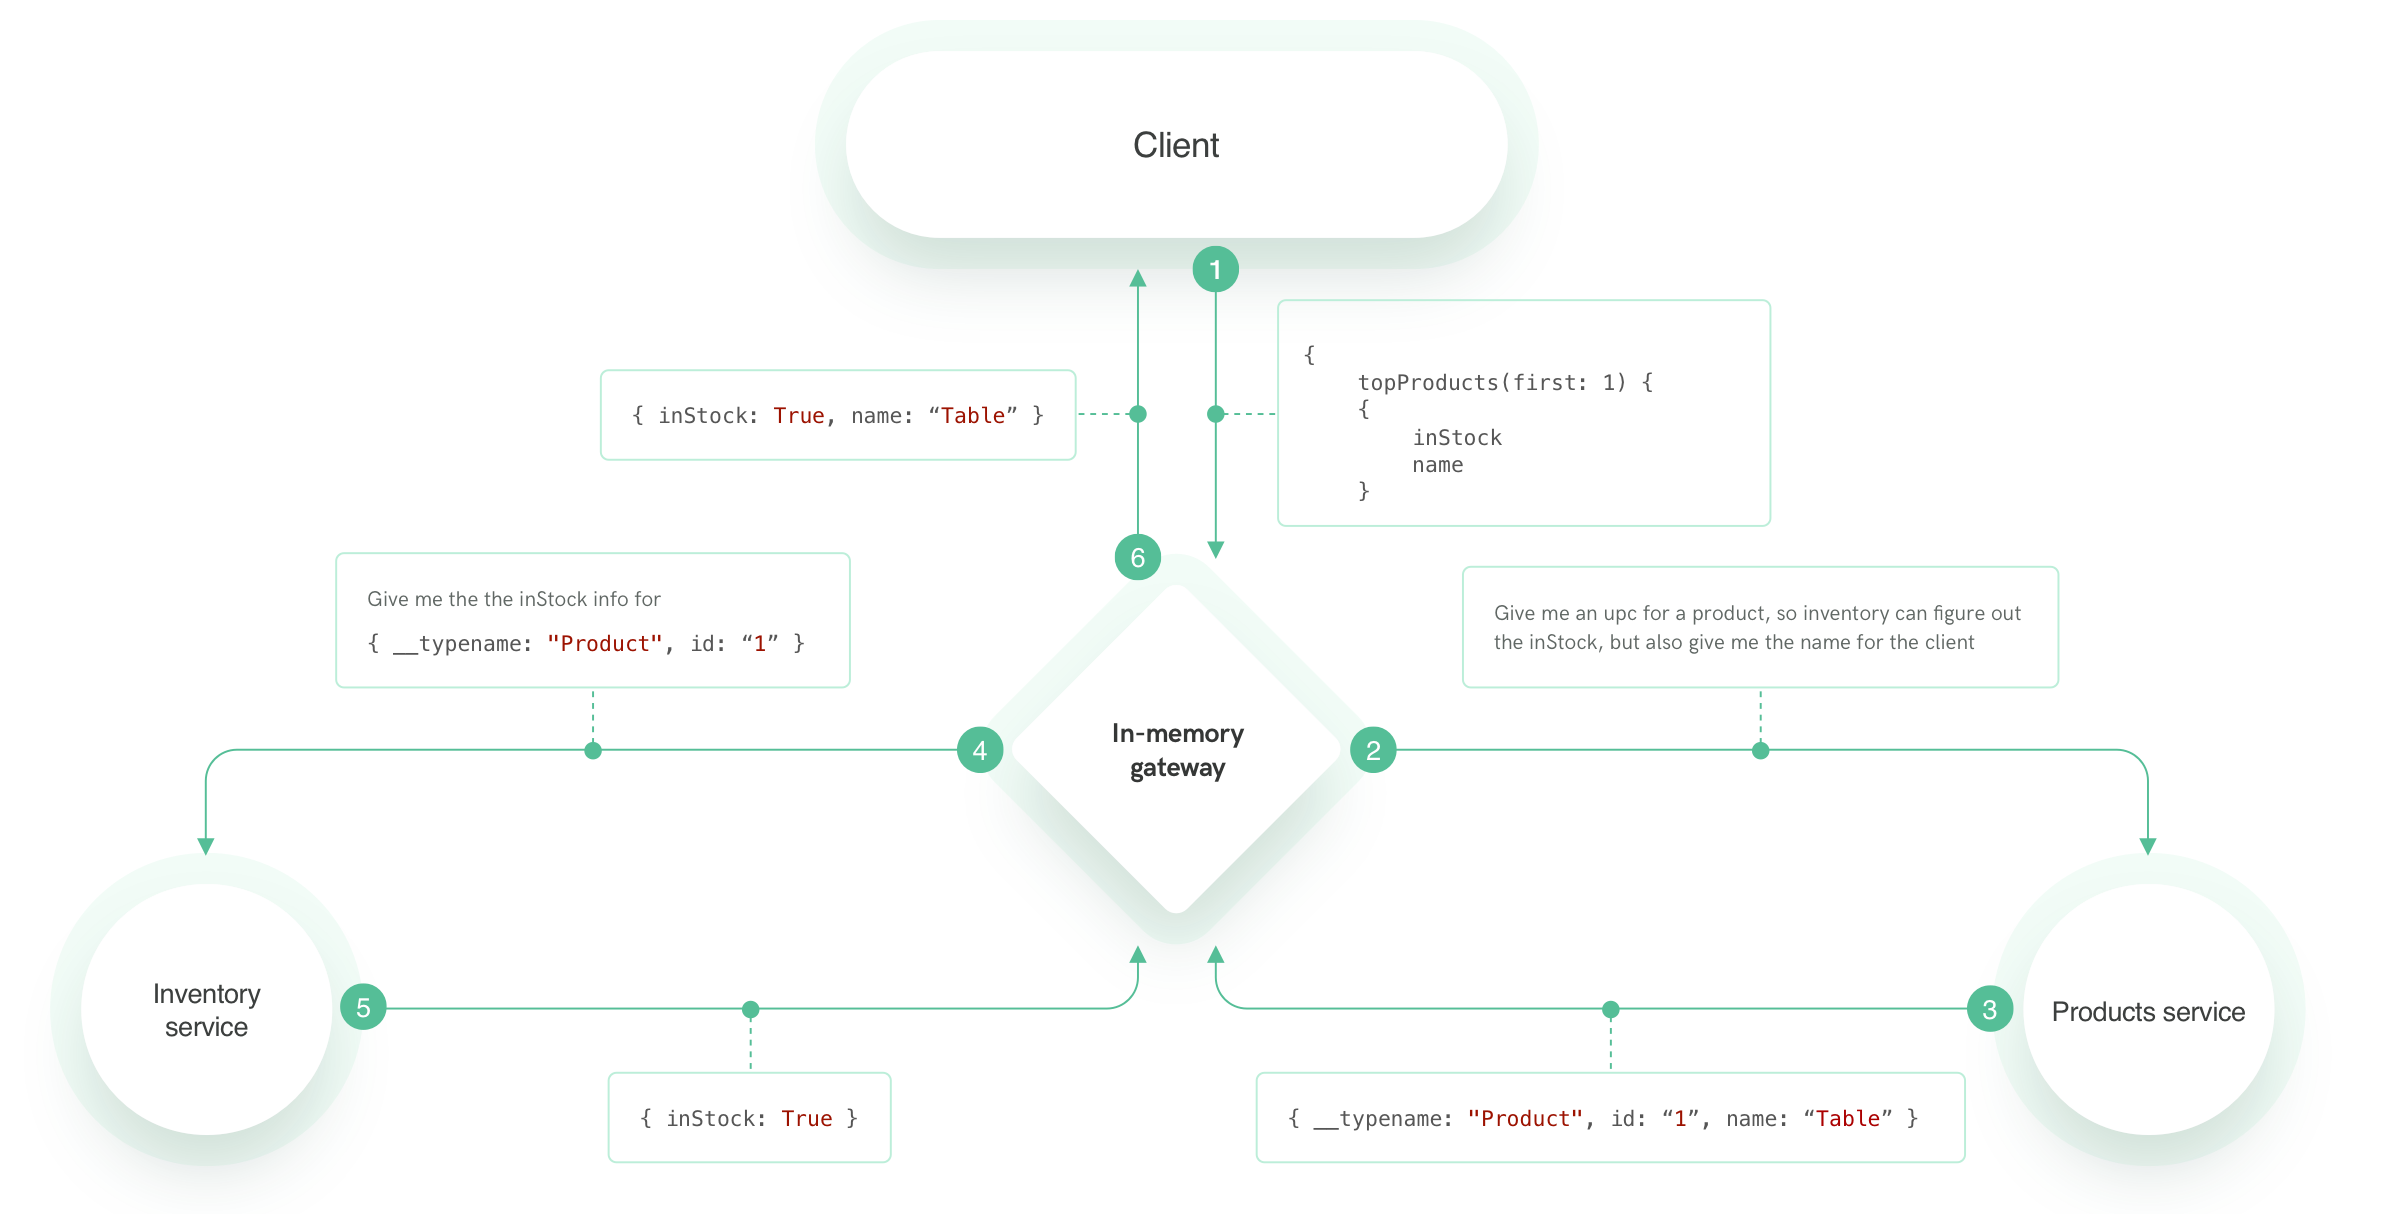
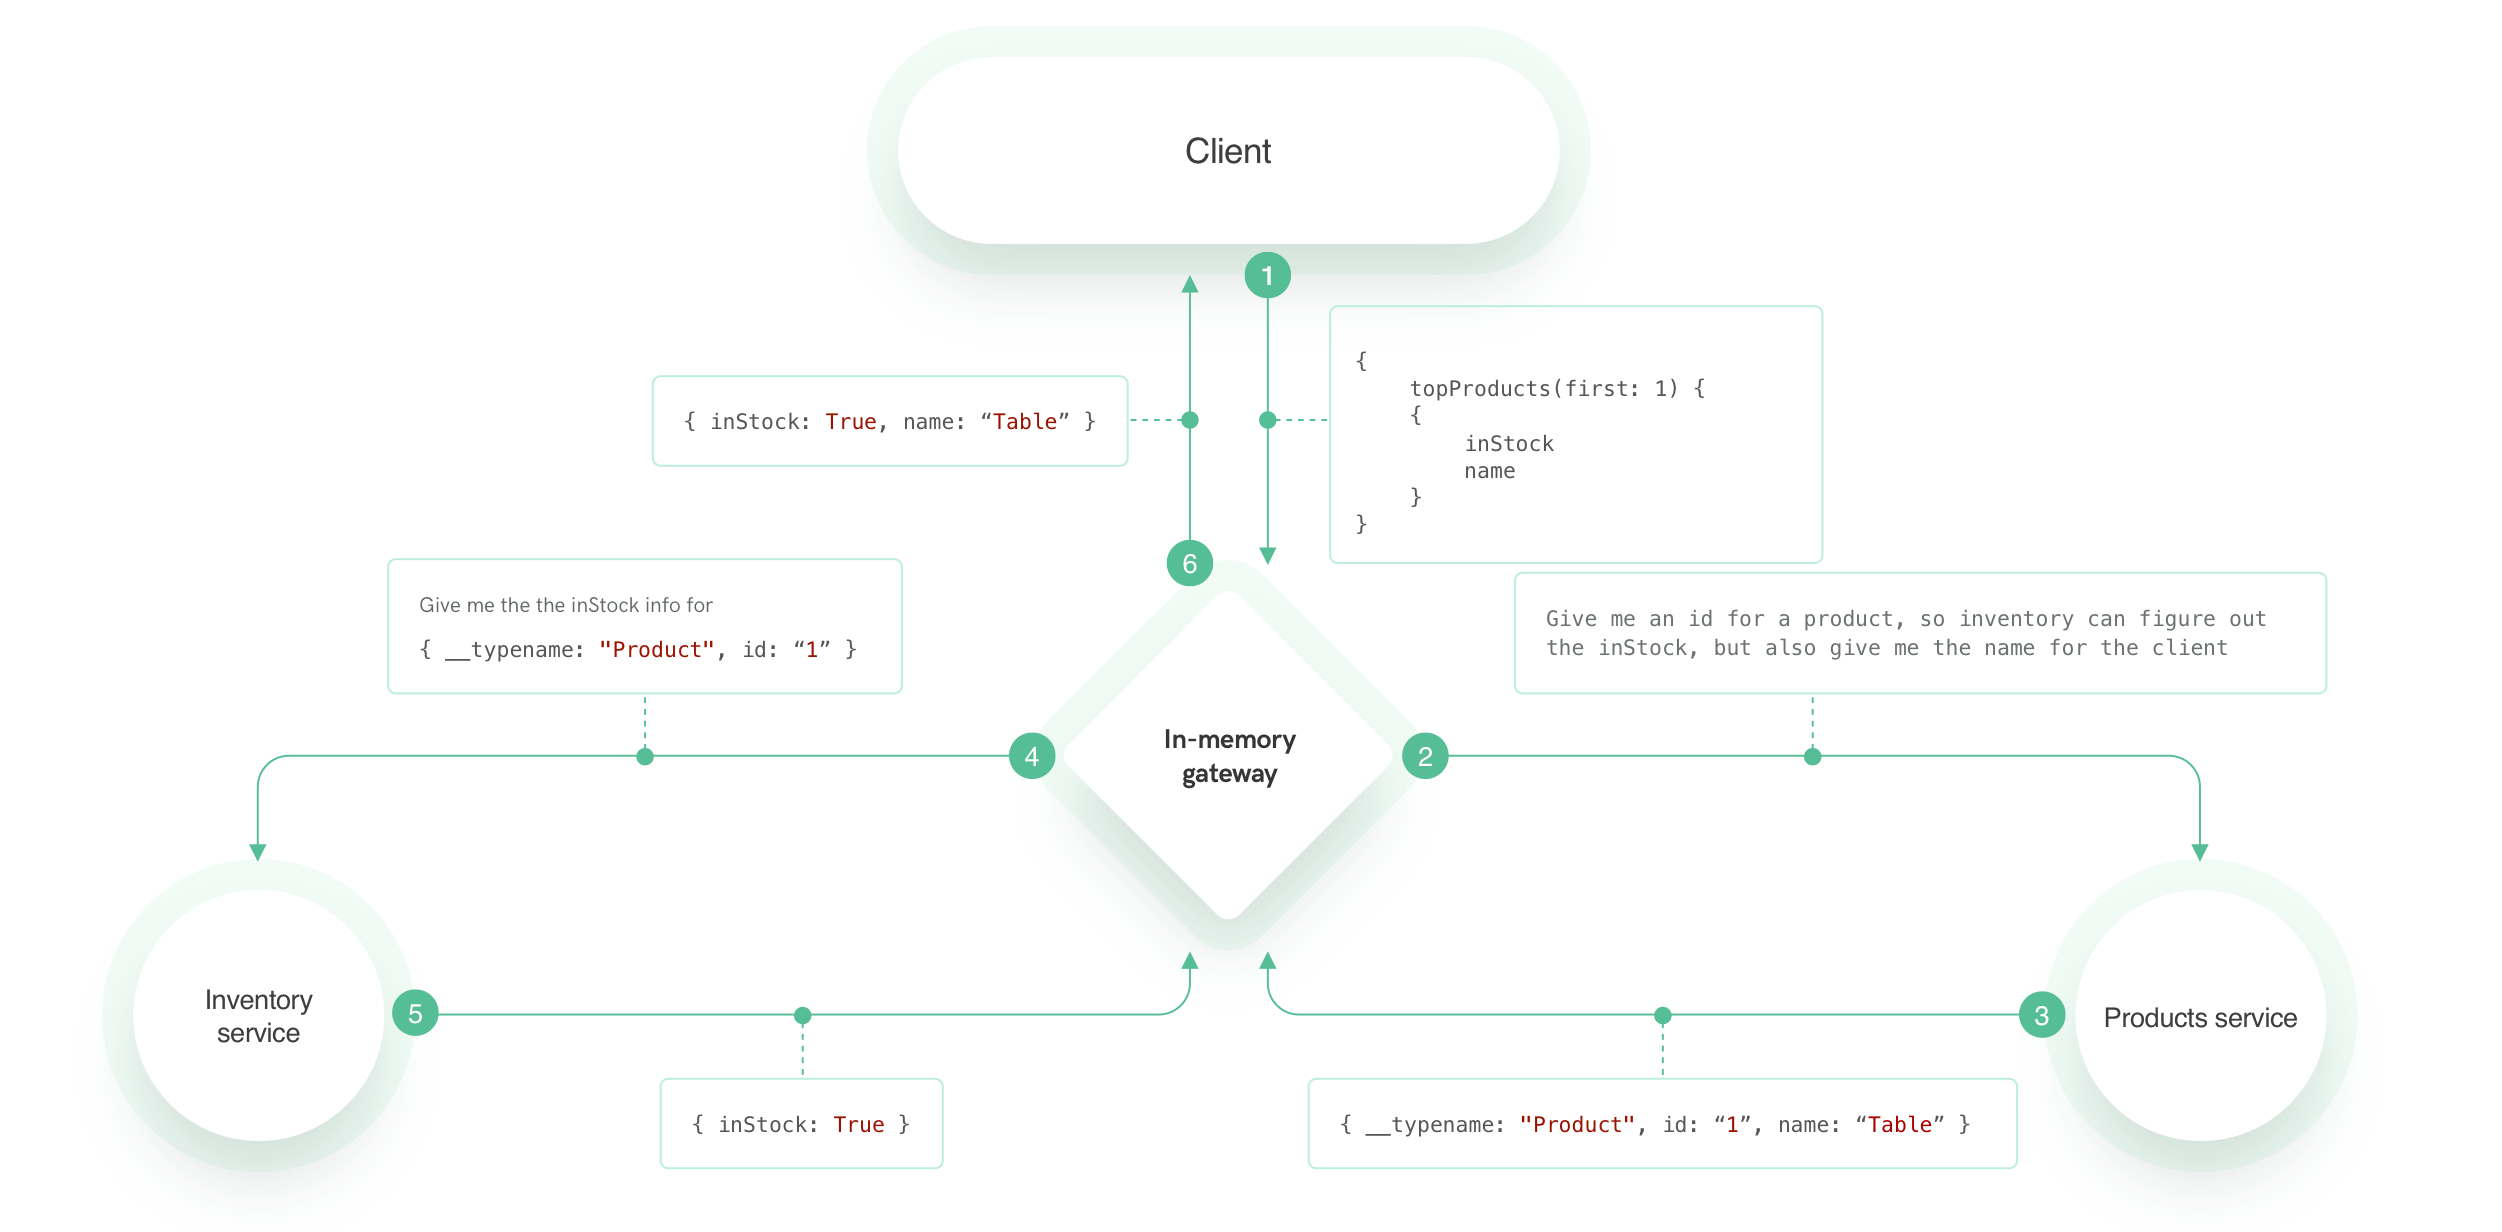
updated info about the charts and updated charts

diff --git a/src/exercises/2/README.md b/src/exercises/2/README.md
@@ -4,7 +4,7 @@ Having `products` service ready, let's create an inventory service, that will ex
 
 The outcome of this exercise should be a functionality that allows user to query `topProducts` from `products` service but having the `inStock` information added to it from `inventory` service.
 
-Take a loot at this chart to understand what we want to achieve:
+Take a loot at this chart to understand what we want to achieve, we are dealing with steps 4 and 5 now.
 
 ![dataflow](./2.png)
 

diff --git a/src/exercises/3/README.md b/src/exercises/3/README.md
@@ -4,6 +4,7 @@ Having `products` and `inventory` services connected, we want to use the `weight
 
 You will be a bit more on your own in this exercise, try to reuse the things you learned in the previous two exercises.
 
+This is what we want to implement:
 ![dataflow](./3.png)
 
 
